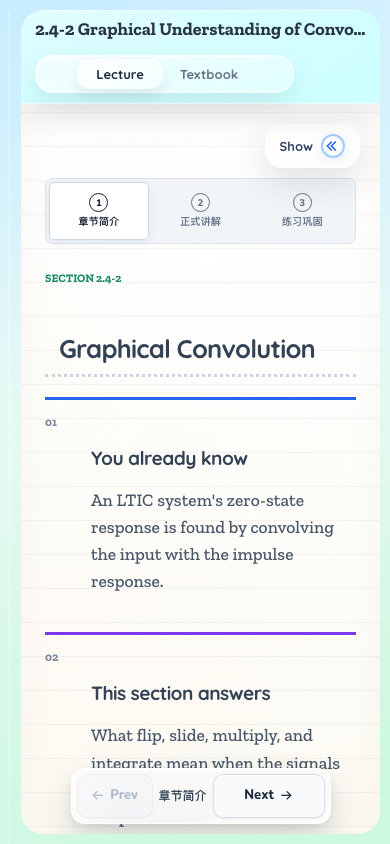
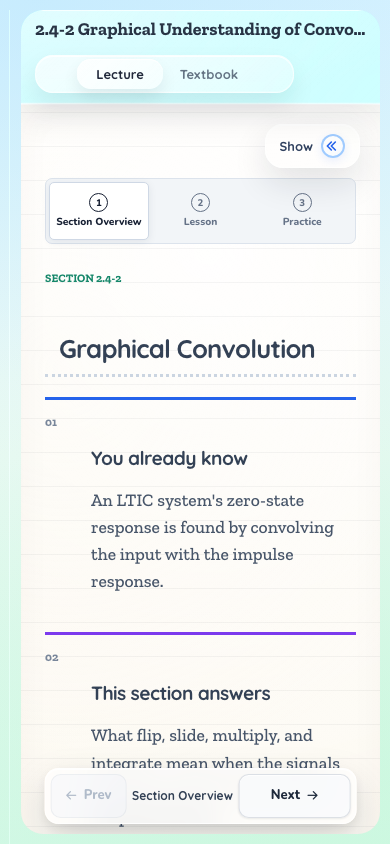
docs: correct convolution loop language boundary

diff --git a/docs/superpowers/specs/2026-08-02-convolution-fourth-loop-design.md b/docs/superpowers/specs/2026-08-02-convolution-fourth-loop-design.md
@@ -39,8 +39,10 @@
 课程打开后先进入顶部的三阶段导航。三阶段属于同一个小节，阶段之间可以直接跳转；每个阶段内部保留自己的分页或题目进度。
 
 ```text
-章节简介（1页） → 正式讲解（多页） → 练习巩固（多题）
+Section Overview (1 page) → Lesson (multiple pages) → Practice (multiple tasks)
 ```
+
+产品语言固定为英文：界面标签、按钮、课程正文和无障碍文案不得使用中文。中文只用于双方沟通和内部 Loop 记录。
 
 ### 3.1 阶段一：章节简介
 
@@ -50,7 +52,7 @@
 - **这一节解决什么**：公式里的翻转、平移和积分，在图上分别代表什么。
 - **学习路线**：卷积是什么 → 为什么需要图解卷积 → 如何计算 → GeoGebra 演示 → 练习。
 
-主按钮进入“正式讲解”。
+主按钮文案为 `Start Lesson`。
 
 ### 3.2 阶段二：正式讲解
 
@@ -63,15 +65,15 @@
 5. **教材 Figure 2.7 交互演示**：用 GeoGebra 重现固定、翻转、平移、重叠和输出曲线。
 6. **卷积在本章中的作用**：零状态响应、LTI 系统、滤波与采样的后续联系。
 
-阶段内显示轻量进度，如“讲解 1 / 6”，并提供上一页、下一页。
+阶段内显示轻量进度，如 `Lesson 1 / 6`，并提供上一页、下一页。
 
 ### 3.3 阶段三：练习巩固
 
 练习阶段独立于讲解分页器，但保留同一小节上下文。题目顺序为：
 
-1. 判断哪条信号固定、哪条信号移动。
-2. 判断两个信号开始重叠的时刻。
-3. 用 GeoGebra 完成一次完整卷积。
+1. `Identify which signal stays fixed and which one moves`。
+2. `Find when the two signals first begin to overlap`。
+3. `Complete one full convolution pass in GeoGebra`。
 4. Quick Check 检验关键概念。
 
 ## 4. 视觉规范
@@ -101,14 +103,14 @@
 
 ### 5.1 顶部阶段导航
 
-- 三个阶段使用分段导航：`章节简介 | 正式讲解 | 练习巩固`。
+- 三个阶段使用分段导航：`Section Overview | Lesson | Practice`。
 - 当前阶段有明确选中态；完成状态可以在后续实现中增加，但本轮不引入复杂徽章。
 - 阶段跳转不丢失当前小节，不需要重新加载整页。
 - 侧栏同步显示当前阶段，避免用户只看到数字而不知道所处位置。
 
 ### 5.2 阶段内分页
 
-- 正式讲解显示“当前页 / 总页数”。
+- 正式讲解显示 `Lesson n / 6`。
 - 上一页、下一页是明确的文字按钮，可用键盘操作。
 - 移动端保留阶段导航，但内部分页按钮固定在内容末端，避免遮挡公式。
 

diff --git a/.trellis/tasks/08-02-lesson-loop-04-convolution-guided-flow/verification.md b/.trellis/tasks/08-02-lesson-loop-04-convolution-guided-flow/verification.md
@@ -8,8 +8,9 @@
 
 ### 阶段与教学顺序
 
-- 顶部阶段导航固定为 `章节简介 | 正式讲解 | 练习巩固`。
-- 简介、讲解、练习分别显示 `章节简介`、`讲解 n / 6`、`练习巩固`，不再显示误导性的全局 `n / 8`。
+- 顶部阶段导航固定为 `Section Overview | Lesson | Practice`。
+- 简介、讲解、练习分别显示 `Section Overview`、`Lesson n / 6`、`Practice`，不再显示误导性的全局 `n / 8`。
+- 产品界面、课程内容、按钮和 ARIA 文案均为英文；中文只用于沟通和本验收记录。
 - 从练习或简介返回正式讲解，会恢复本次会话最近阅读的讲解页。
 - 六个讲解页按 What → Why → How → How → GeoGebra → 本章用途排列。
 - 普通知识块使用页边编号；翻转、平移、相乘和积分步骤使用连续时间轴。
@@ -59,6 +60,6 @@
 
 ## English Summary
 
-Loop 04 passes its acceptance criteria. The existing eight-page parser remains intact and is mapped to one introduction, six lesson pages, and one practice page. The guided flow adds stage navigation, stage-local progress, recent lesson-page restoration, What → Why → How ordering, editorial markers, process timelines, and a fast 70/180ms transition without changing other lessons or the GeoGebra math contract.
+Loop 04 passes its acceptance criteria. The existing eight-page parser remains intact and is mapped to one introduction, six lesson pages, and one practice page. The guided flow adds stage navigation, stage-local progress, recent lesson-page restoration, What → Why → How ordering, editorial markers, process timelines, and a fast 70/180ms transition without changing other lessons or the GeoGebra math contract. All learner-facing UI, lesson content, controls, pagination, and accessibility copy are English; Chinese remains limited to collaboration and the Chinese acceptance record above.
 
 Desktop, 390px, and 430px checks passed without horizontal overflow. A screenshot exposed an overlap between the mobile Q&A switch and the stage navigation; the layout now reserves dedicated space and the mobile harness asserts that their bounding rectangles do not intersect. All targeted tests, 16 CSS-probe states, and 32 visual-regression views passed. No new browser errors were observed.

diff --git a/.trellis/tasks/08-02-lesson-loop-04-convolution-guided-flow/prd.md b/.trellis/tasks/08-02-lesson-loop-04-convolution-guided-flow/prd.md
@@ -2,12 +2,12 @@
 
 ## 目标
 
-在已验收的 2.4-2 第三版基础上，把课程组织为“章节简介、正式讲解、练习巩固”三个明确阶段，按 What → Why → How 重排教学顺序，并用更轻的页边编号、步骤时间轴和 160–180ms 页面切换降低阅读阻力。
+在已验收的 2.4-2 第三版基础上，把课程组织为 `Section Overview`、`Lesson`、`Practice` 三个明确阶段，按 What → Why → How 重排教学顺序，并用更轻的页边编号、步骤时间轴和 160–180ms 页面切换降低阅读阻力。
 
 ## 用户已确认的要求
 
 - 第一页是独立章节简介，准确承接教材纸质页 178 的引入逻辑。
-- 顶部提供 `章节简介 | 正式讲解 | 练习巩固` 三阶段导航。
+- 顶部提供 `Section Overview | Lesson | Practice` 三阶段英文导航。
 - 正式讲解内部保留上一页、下一页和阶段内进度。
 - 讲解顺序为：卷积是什么 → 为什么需要图解卷积 → 如何计算 → Figure 2.7 GeoGebra → 本章用途。
 - 普通概念页使用 A 方案的页边编号。
@@ -15,6 +15,7 @@
 - 删除纸张翻转效果，改为约 160–180ms 的淡入和轻微位移。
 - 保留已确认的墨水池、洒水车图片、唯一 GeoGebra Demo 和教材 Figure 2.7 数学内容。
 - 设计、实施和验收记录以中文为主；最终验收附英文摘要。
+- 沟通与内部 Loop 记录可以使用中文，但产品界面、课程内容、按钮和无障碍文案必须使用英文。
 
 ## 范围约束
 
@@ -28,7 +29,7 @@
 
 - [x] 现有 8 个应用页面被稳定分为 `1 个简介 + 6 个讲解 + 1 个练习`。
 - [x] 三阶段可直接跳转，返回正式讲解时恢复本次会话最近阅读的讲解页。
-- [x] 正式讲解显示 `讲解 n / 6`，阶段简介和练习不显示误导性的 `n / 8`。
+- [x] 正式讲解显示 `Lesson n / 6`，阶段简介和练习不显示误导性的 `n / 8`。
 - [x] 第一页不再显示 `Section Objective` 和 `Concepts In This Section` 大卡片。
 - [x] 六个讲解标题和顺序符合 What → Why → How → Demo → 本章用途。
 - [x] 概念页只使用页边编号；翻转、平移、相乘、积分使用连续时间轴。

diff --git a/workspace/memory/2026-08-02.md b/workspace/memory/2026-08-02.md
@@ -1,6 +1,6 @@
 # 2026-08-02
 
-- 用户确认 2.4-2 第四版采用三阶段结构：`章节简介 | 正式讲解 | 练习巩固`。现有解析器仍输出 `1 + 6 + 1` 共 8 页，不新增第二套分页系统。
+- 用户确认 2.4-2 第四版采用三阶段结构：`Section Overview | Lesson | Practice`。现有解析器仍输出 `1 + 6 + 1` 共 8 页，不新增第二套分页系统。
 - 正式讲解固定为 What → Why → How → How → Figure 2.7 GeoGebra → 本章用途。返回正式讲解时恢复本次会话最近阅读位置；底部分页器改为阶段语义。
 - 第一页按教材纸质页 178 的引入逻辑组织为“你已经知道、这一节解决什么、学习路线”，不再使用旧 Section Objective / Concepts 大卡片。
 - 普通知识块使用轻量页边编号；只有真正有先后关系的翻转、平移、相乘、积分使用连续时间轴。旧大号编号卡不再输出。
@@ -11,3 +11,4 @@
 - 自动化通过：课程静态契约、布局 `16/16`、GeoGebra `11/11`、移动面板 `7/7`、`npm run check`、16 个 CSS probe 状态和 32 个视觉回归视图。
 - 真实页面在 `http://127.0.0.1:9160/` 运行。桌面 GeoGebra 正常绘制，浏览器无新增 JavaScript error，仅有项目原有 Tailwind CDN 提示。
 - 分支为 `codex/lesson-loop-04-convolution-guided-flow`，基线为 `codex/lesson-loop-03-convolution-reading-structure`。按用户要求保持本地，不推送、不创建 PR、不合并。
+- 用户再次明确语言边界：双方沟通使用中文；实际产品界面、课程、按钮与无障碍文案必须全部使用英文；Loop 验收记录仍按先前要求保留中文正文和英文摘要。第四版最初误加的中文产品文案已作为缺陷修正，并增加静态英文契约。

diff --git a/.trellis/tasks/08-02-lesson-loop-04-convolution-guided-flow/design.md b/.trellis/tasks/08-02-lesson-loop-04-convolution-guided-flow/design.md
@@ -30,6 +30,8 @@ overview + 6 knowledge + quiz
 
 阶段按钮仍通过当前 `renderCurrentKnowledgePoint()` 提交页面，所有内容替换继续经过 `replaceLearnContent()`，因此不会绕过 GeoGebra teardown。
 
+产品语言边界固定为英文：阶段标签、分页器、按钮、课程正文和 ARIA 文案不得使用中文。中文只用于沟通和内部 Loop 记录。
+
 ## 3. 章节简介与练习页
 
 课程缓存用稳定标记提供 2.4-2 专属简介内容。`buildLessonOverviewHtml()` 只在发现该标记时直接保留它；其他课程继续使用原有 Objective/Concepts 解析。
@@ -69,9 +71,9 @@ overview + 6 knowledge + quiz
 
 底部上一页、下一页仍按现有 8 个索引顺序移动，因此简介末尾自然进入讲解，讲解末尾自然进入练习。显示文字改为阶段语义：
 
-- 简介：`章节简介`
-- 讲解：`讲解 n / 6`
-- 练习：`练习巩固`
+- 简介：`Section Overview`
+- 讲解：`Lesson n / 6`
+- 练习：`Practice`
 
 到达练习页才沿用现有完成标记和下一小节逻辑。
 

diff --git a/.trellis/tasks/08-02-lesson-loop-04-convolution-guided-flow/implement.md b/.trellis/tasks/08-02-lesson-loop-04-convolution-guided-flow/implement.md
@@ -96,9 +96,9 @@
 ## 第 6 步：接通 pager、完成状态与降级路径
 
 - [x] 在 `app/ui-friction-fixes.js` 的 pager 刷新逻辑中优先读取阶段状态：
-  - 简介显示“章节简介”；
-  - 知识页显示“讲解 n / 6”；
-  - quiz 显示“练习巩固”。
+  - 简介显示 `Section Overview`；
+  - 知识页显示 `Lesson n / 6`；
+  - quiz 显示 `Practice`。
 - [x] 上一页、下一页仍按现有索引移动，边界行为和下一小节逻辑不变。
 - [x] 只有到达练习页时才标记本小节完成。
 - [x] 阶段状态缺失时退回原 `n / total` 文案和原边界判断。
